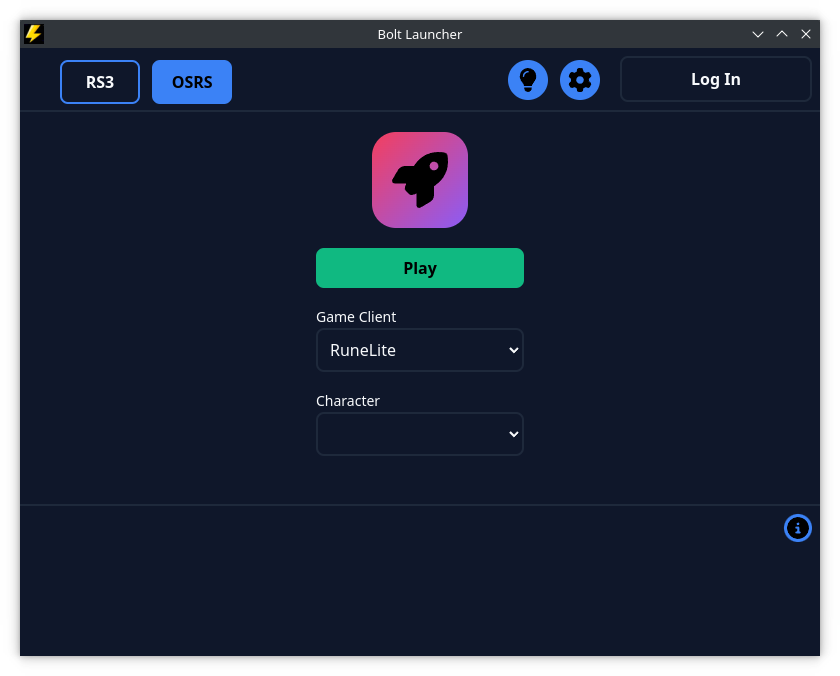
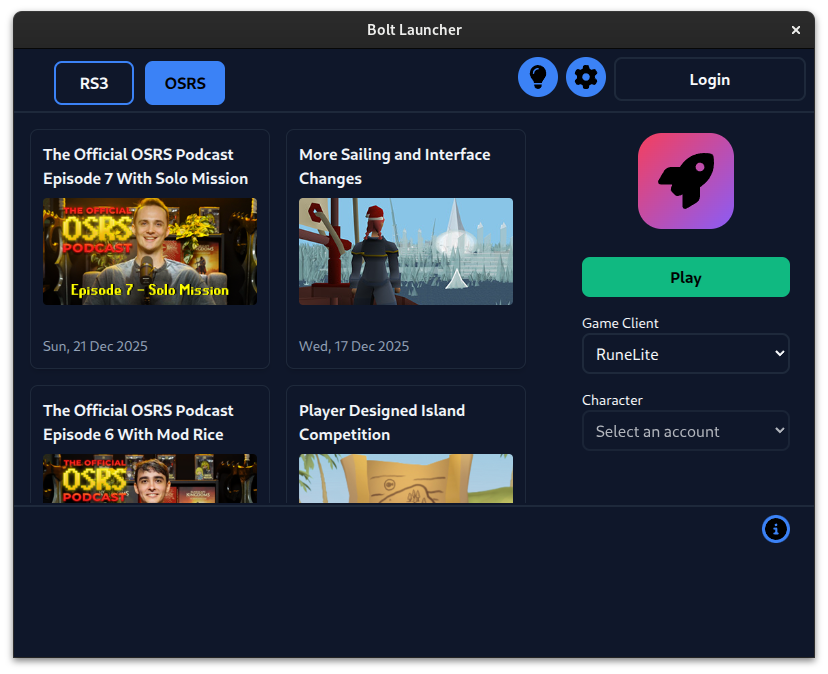
Update README and screenshots to reflect changes.
- Added a couple sections in the README about the CMake presets.

diff --git a/README.md b/README.md
@@ -9,12 +9,18 @@
     - [Mac](#mac)
   - [Maintenance](#maintenance)
   - [Troubleshooting](#troubleshooting)
+  - [Contributing](#contributing)
   - [Credit](#credit)
   - [Disclaimer](#disclaimer)
 
 # Bolt
 
 A third-party launcher for your favourite MMO
+
+<p align="center">
+  <img src="./screenshot/dark.png" alt="Bolt screenshot" width="49%"/>
+  <img src="./screenshot/light.png" alt="Bolt screenshot" width="49%"/>
+</p>
 
 ## Contact
 
@@ -62,7 +68,7 @@ Now you can start building. Open a command window or terminal in the root direct
 
 ### Linux
 
-If building with GCC, you need version 13.1 or later. If building with Clang, you need version 14 or later.
+If building with GCC, you need version 13.1 or later. If building with Clang, you need version 16 or later.
 - `cmake -S . -B build -D CMAKE_BUILD_TYPE=Release`
   - note: you'll need to specify either `-D BOLT_LUAJIT_INCLUDE_DIR=/usr/include/luajit-2.1` OR `-D BOLT_SKIP_LIBRARIES=1` depending on whether you want to build the plugin library
   - note: build types "Debug" and "Release" are supported
@@ -72,6 +78,19 @@ If building with GCC, you need version 13.1 or later. If building with Clang, yo
 - `cmake --install build --prefix build`
   - note: the last line creates a staging build in the `build` directory, this needs to be done between changing and running the program every time
   - note: if a `--prefix` is not specified, Bolt will be installed to /usr/local, requiring root privileges
+
+---
+
+Alternatively, you can use the `CMakePresets.json` file to simplify some of the above steps.
+For example, to build with Clang and Ninja in Release mode, run:
+```sh
+cmake --preset release-clang
+cmake --build --preset release-clang
+```
+This will also run the install step with the prefix set to `build/`.
+Check the `json` file for other presets you can use.
+
+---
 
 After that, the helper script `./build/bolt.sh` can be used to launch Bolt from its staging location.
 
@@ -109,6 +128,16 @@ When doing the initial cmake setup step, the following options exist which you m
 - `-D BOLT_HTML_DIR=/some/directory`: the location of the launcher's internal webpage content, `$PWD/app/dist` by default (note: must be an ABSOLUTE path)
 - `-D BOLT_DEV_SHOW_DEVTOOLS=1`: enables chromium developer tools for the launcher
 - `-D BOLT_DEV_LAUNCHER_DIRECTORY=1`: instead of embedding the contents of BOLT_HTML_DIR into the output executable, the files will be served from disk at runtime; on supported platforms the launcher will automatically reload the page when those files are changed
+
+---
+
+There is a CMake preset that sets the `BOLT_DEV` options; useful for `app` development. You can use it like so:
+```sh
+cmake --preset clang-app
+cmake --build --preset clang-app
+```
+
+---
 
 ## Troubleshooting
 
